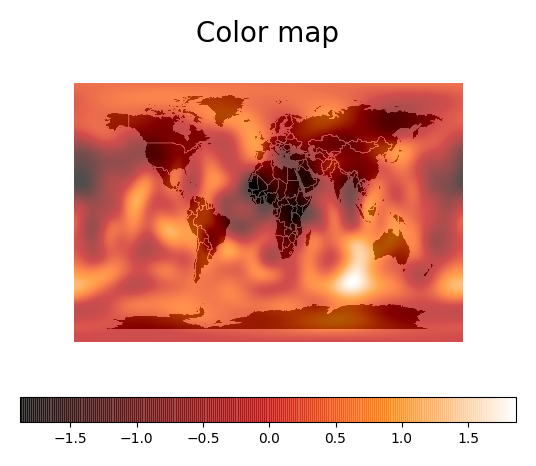
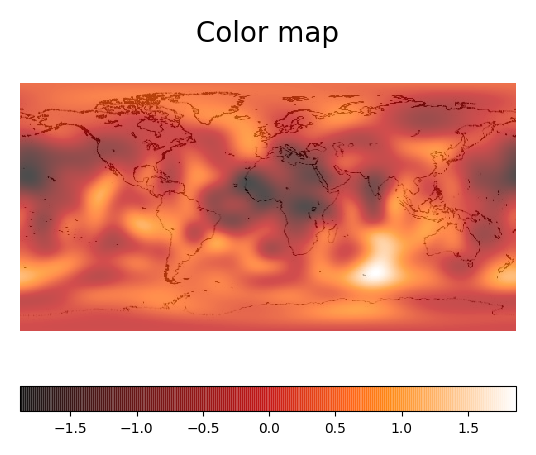
color_map: fix lat coordinates

diff --git a/color_map/color_map.py b/color_map/color_map.py
@@ -28,14 +28,15 @@ output_path = args.name
 def resize_with_extender(ds, new_shape, extender):
     """Fill rest space of dataset with filler to be the same shape as new_shape"""
     prepared_ds = np.full((181, 361), extender)
-    prepared_ds[int(lat[0] + 90.0):int(lat[1] + 91.0), int(lon[0]):int(lon[1] + 1)] = ds
+    # import pdb; pdb.set_trace()
+    prepared_ds[int(90 - lat[1]):int(91 - lat[0]), int(lon[0]):int(lon[1] + 1)] = ds
     prepared_ds = resize(prepared_ds, new_shape)
     return prepared_ds
 
 
 def main():
     # Read world map
-    world_map = imread('world_map.png', as_gray=True)
+    world_map = imread('world_map2.jpg', as_gray=True)
 
     # Set waves dataset
     ds = get(lat, lon, level)
@@ -49,7 +50,7 @@ def main():
     plt.colorbar(norm=Normalize(vmin=ds.min(), vmax=ds.max()), orientation='horizontal')
     plt.savefig(output_path, bbox_inches='tight', pad_inches=0.2)
 
-    print(f'Congratulations! The color map was created. Check out {output_path}.')
+    print(f"Congratulations! The color map was created. Check out {output_path}.")
 
 
 if __name__ == '__main__':

diff --git a/color_map/dataset.py b/color_map/dataset.py
@@ -33,8 +33,9 @@ def get(lat, lon, level):
 
     level = levels.index(level)
 
+    # import pdb; pdb.set_trace()
     dataset_url = f'http://144.206.233.183/thredds/dodsC/Data/s362d.nc.ascii?\
-                    data[{level}:1:{level}][{lon_0}:1:{lon_1}][{lat_0}:1:{lat_1}]'
+                    data[{level}:1:{level}][{lon_0}:1:{lon_1}][{180 - lat_1}:1:{180 - lat_0}]'
 
     r = requests.get(dataset_url)
     r.raise_for_status()
